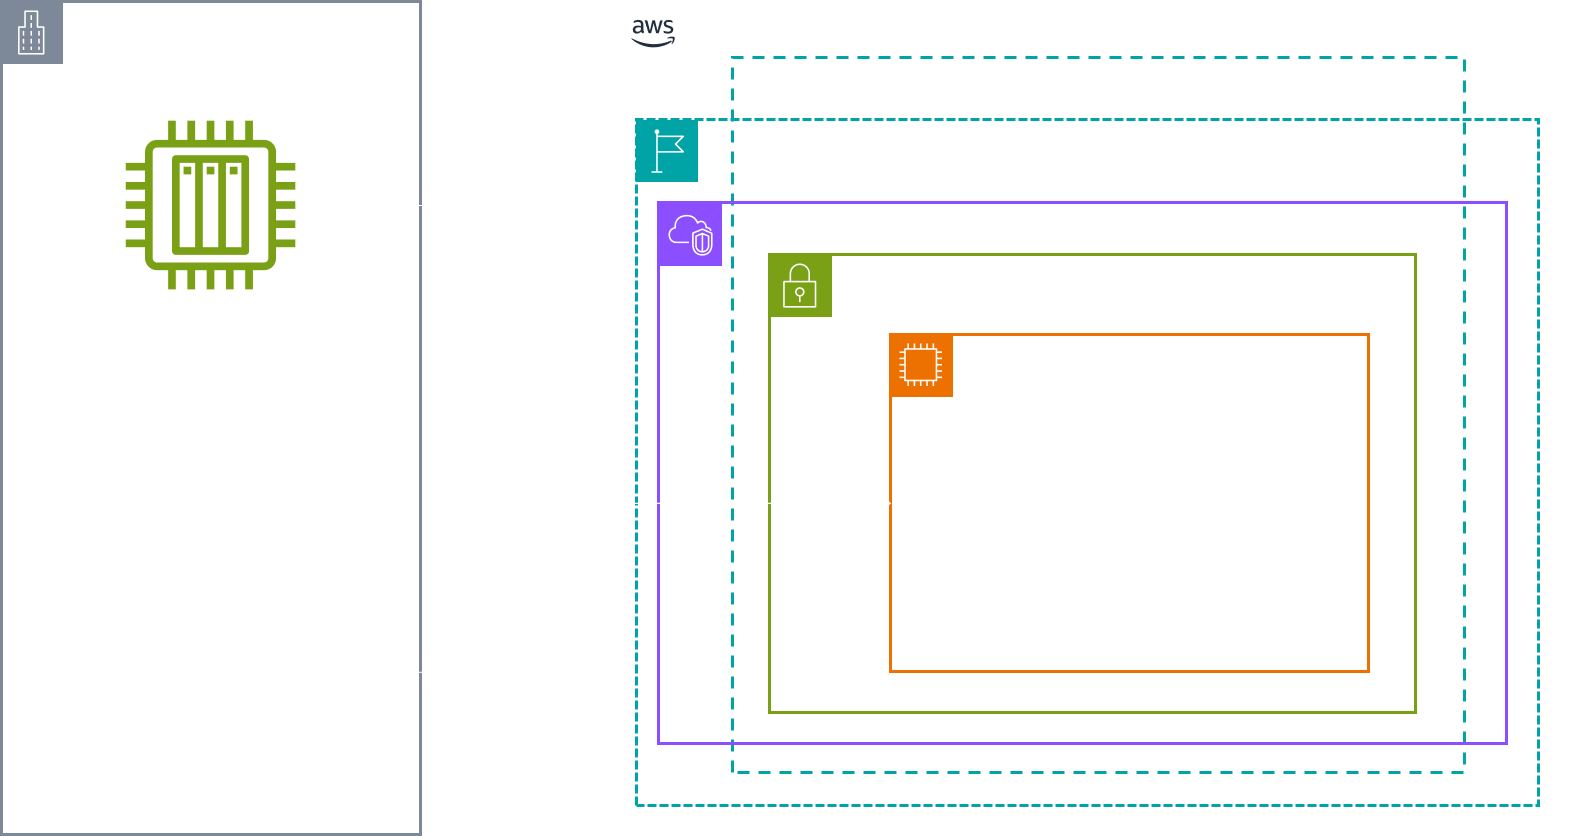
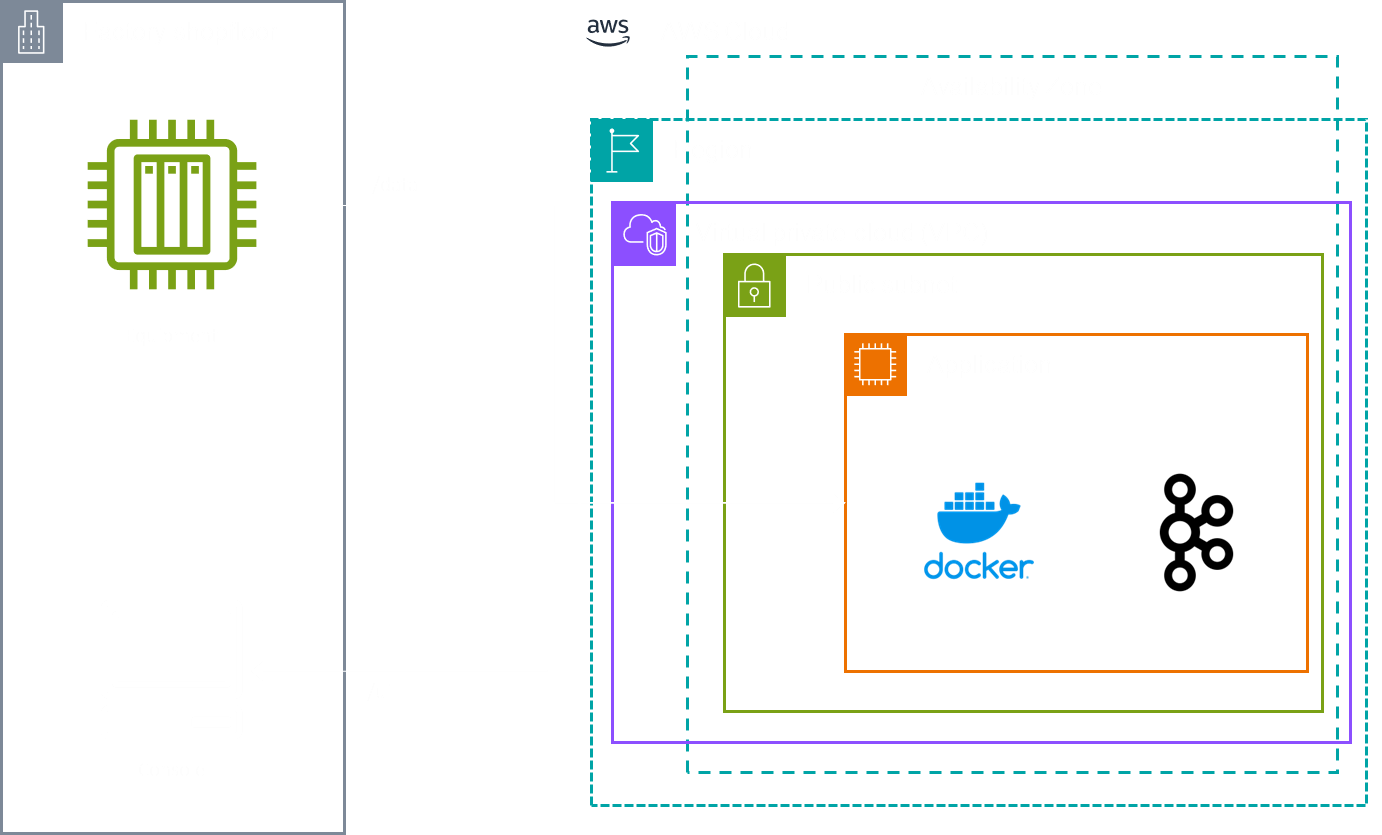
Documentation clean-up.

diff --git a/docs/ec2.md b/docs/ec2.md
@@ -1,0 +1,181 @@
+# EC2 install instructions
+
+This page documents steps to install the application on EC2 instance.
+
+- [EC2 install instructions](#ec2-install-instructions)
+  - [Initialize](#initialize)
+  - [Install Docker](#install-docker)
+  - [Login to GHCR](#login-to-ghcr)
+  - [Install Java](#install-java)
+  - [Install Kafka as a service](#install-kafka-as-a-service)
+  - [Install application](#install-application)
+
+## Initialize
+
+1. Set-up environment variables and initialize.
+
+```bash
+export KAFKA_BIN_RELEASE=2.13
+export KAFKA_RELEASE=3.6.0
+export KAFKA_HOME=/opt/kafka
+export MTMT_VERSION=0.0.0
+echo "export KAFKA_BIN_RELEASE=2.13" >> .profile
+echo "export KAFKA_RELEASE=3.6.0" >> .profile
+echo "export KAFKA_HOME=/opt/kafka" >> .profile
+echo "export MTMT_VERSION=0.0.0" >> .profile
+sudo apt-get update
+```
+
+## Install Docker
+
+2. Install Docker engine and Docker Compose.
+
+```bash
+# Add Docker's official GPG key:
+sudo apt-get install -y ca-certificates curl gnupg
+sudo install -m 0755 -d /etc/apt/keyrings
+curl -fsSL https://download.docker.com/linux/ubuntu/gpg | sudo gpg --dearmor -o /etc/apt/keyrings/docker.gpg
+sudo chmod a+r /etc/apt/keyrings/docker.gpg
+
+# Add the repository to Apt sources:
+echo \
+  "deb [arch="$(dpkg --print-architecture)" signed-by=/etc/apt/keyrings/docker.gpg] https://download.docker.com/linux/ubuntu \
+  "$(. /etc/os-release && echo "$VERSION_CODENAME")" stable" | \
+  sudo tee /etc/apt/sources.list.d/docker.list > /dev/null
+sudo apt-get update
+
+# Add non-root user to docker group
+sudo apt-get install -y docker-ce docker-ce-cli containerd.io docker-buildx-plugin docker-compose-plugin
+sudo usermod -aG docker $USER
+```
+
+3. Log out and log in again to the EC2 instance.
+
+## Login to GHCR
+
+4. Log in to `ghcr.io` container registry.
+
+```bash
+export CR_PAT=
+echo $CR_PAT | docker login ghcr.io -u USERNAME --password-stdin
+```
+
+## Install Java
+
+5. Install Java.
+
+```bash
+sudo apt-get install -y openjdk-19-jre-headless
+```
+
+## Install Kafka as a service
+
+6. Install Kafka.
+
+```bash
+wget https://dlcdn.apache.org/kafka/${KAFKA_RELEASE}/kafka_${KAFKA_BIN_RELEASE}-${KAFKA_RELEASE}.tgz
+tar -zxvf kafka_${KAFKA_BIN_RELEASE}-${KAFKA_RELEASE}.tgz
+sudo cp -R ~/kafka_${KAFKA_BIN_RELEASE}-${KAFKA_RELEASE} /opt
+sudo ln -s /opt/kafka_${KAFKA_BIN_RELEASE}-${KAFKA_RELEASE} /opt/kafka
+```
+
+7. Copy the following to `/etc/init.d/kafka` to set-up Kafka service.
+
+```bash
+#!/bin/bash
+KAFKA_HOME=/opt/kafka
+# See how we were called.
+case "$1" in
+  start)
+        # Start daemon.
+        echo "Generate cluster UUID"
+        KAFKA_CLUSTER_ID="$(${KAFKA_HOME}/bin/kafka-storage.sh random-uuid)"
+        echo "Format log directories"
+        ${KAFKA_HOME}/bin/kafka-storage.sh format -t $KAFKA_CLUSTER_ID -c ${KAFKA_HOME}/config/kraft/server.properties
+        echo "Start Kafka server"
+        ${KAFKA_HOME}/bin/kafka-server-start.sh -daemon ${KAFKA_HOME}/config/kraft/server.properties
+        ;;
+  stop)
+        # Stop daemons.
+        echo "Shutting down Kafka";
+        pid=`ps ax | grep -i 'kafka.Kafka' | grep -v grep | awk '{print $1}'`
+        if [ -n "$pid" ]
+          then
+          kill -9 $pid
+        else
+          echo "Kafka was not Running"
+        fi
+        ;;
+  restart)
+        $0 stop
+        sleep 2
+        $0 start
+        ;;
+  status)
+        pid=`ps ax | grep -i 'kafka.Kafka' | grep -v grep | awk '{print $1}'`
+        if [ -n "$pid" ]
+          then
+          echo "Kafka is Running as PID: $pid"
+        else
+          echo "Kafka is not Running"
+        fi
+        ;;
+  *)
+        echo "Usage: $0 {start|stop|restart|status}"
+        exit 1
+esac
+
+exit 0
+```
+
+8. Change permissions and launch Kafka service.
+
+```bash
+sudo chmod 755 /etc/init.d/kafka
+sudo update-rc.d kafka defaults
+sudo service kafka start
+sudo service kafka status
+```
+
+## Install application
+
+9. Download and unzip application archive.
+
+```bash
+cd $HOME
+wget https://github.com/nsubrahm/launcher/releases/download/v${MTMT_VERSION}/launch.tar.gz
+tar -xzf launch.tar.gz
+export PROJECT_HOME=$HOME/launch
+echo "export PROJECT_HOME=$HOME/launch" >> .profile
+```
+
+10. Create topics on Kafka broker.
+
+```bash
+cd ${PROJECT_HOME}/scripts
+./init.sh
+```
+
+11. Launch applications.
+
+```bash
+cd ${PROJECT_HOME}
+docker compose -f apps.yaml --env-file apps.env up -d
+```
+
+12. Check.
+
+The following command should list the `alarms`, `alerts`, `merger` and `events` applications launched and in healthy status. 
+
+```bash
+docker ps
+```
+
+13. _(Optional)_ Shut down applications.
+
+```bash
+cd ${PROJECT_HOME}
+docker compose -f apps.yaml --env-file apps.env down
+cd scripts
+./clean.sh
+```

diff --git a/README.md b/README.md
@@ -30,7 +30,7 @@ The pre-requisites for installation are as follows:
 
 ### Install instructions
 
-See [here](./on-premise.md) for install instructions on on-premise machine.
+See [here](docs/on-premises.md) for install instructions on on-premise machine.
 
 ## EC2 installation
 
@@ -47,4 +47,4 @@ The pre-requisites for installation are as follows:
 
 ### Install instructions
 
-See [here](./ec2.md) for install instructions on EC2 machine.
+See [here](docs/ec2.md) for install instructions on EC2 machine.
